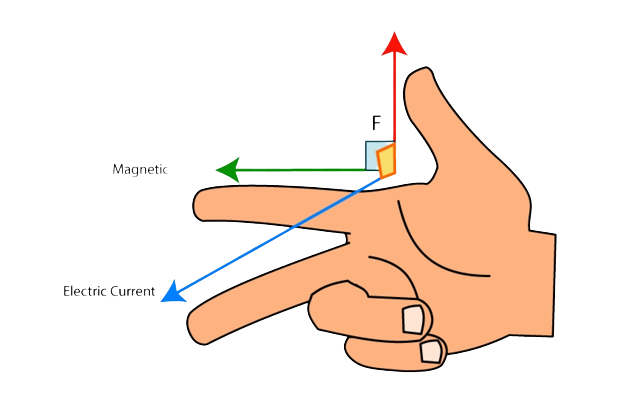
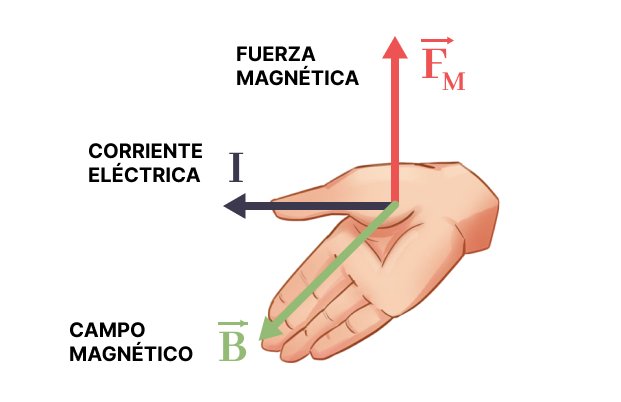
.

diff --git a/simulacion-11.html b/simulacion-11.html
@@ -52,22 +52,25 @@
         <!-- Descripcion -->
         <div class="album py-5 bg-light">
             <div class="container">
-                <h2>Carga eléctrica y ley de Coulomb</h2>
-                <p>Veamos la interaccion entre particulas puntuales en la siguiente animacion</p>
-                <h2>Funciones</h2>
-                <p>Lorem ipsum dolor sit amet consectetur adipisicing elit. Eius asperiores error nulla ex maiores commodi ipsam eligendi excepturi aliquam, ab fuga voluptas repellendus quam vero at exercitationem tempore sed distinctio!</p>
-                <!--
-                <p>
-                    When \(a \ne 0\), there are two solutions to \(ax^2 + bx + c = 0\) and they are
-                    \[x = {-b \pm \sqrt{b^2-4ac} \over 2a}.\]
+                <h2>Ley Biot-Savart</h2>
+                <p>La ley de Biot-Savart, relaciona los campos magnéticos con las corrientes que los crean. De una manera similar a como la ley de Coulomb relaciona los campos eléctricos con las cargas puntuales que las crean. La obtención del campo magnético resultante de una distribución de corrientes, implica un producto vectorial, y cuando la distancia desde la corriente al punto del campo está variando continuamente, se convierte inherentemente en un problema de cálculo diferencial.
                 </p>
-                -->
+                <p class="text-center"><img height="300" src="img/a11-bsav.png" alt=""></ class="text-center">
+                
 
-                <ul>
-                    <li>Contenido</li>
-                    <li>Contenido</li>
-                    <li>Contenido</li>
-                </ul>
+                <p>
+                    \[
+                    \vec{d{\bf{B}}}\ = \frac{{\mu _0 }}{{4\pi }}\frac{{I \vec{d{\bf{L}}} \times {\bf{\hat r}}}}{{r^2 }}
+                        
+                    \]
+                    Donde: \(\vec{d{\bf{B}}}\) es el campo magnético de un diferencial del conductor,
+                    \(\vec{d{\bf{L}}}\) es la longitud infinitesimal del conductor que transporta la corriente eléctrica \(I\) y
+                    \(\bf{\hat r}\) es el vector unitario para especificar la dirección del vector distancia \(r\) desde la corriente al punto del campo.
+                </p>
+                <h2>Funciones</h2>
+                <p>En la simulación podemos apreciar las direcciones del la corriente, campo magnético y desplazamiento, siguiendo la ley de Biot-Savart y la regla de la mano derecha.</p>
+                <p>Puedes pausar y reiniciar la simulación utilizando los botones.</p>
+                
                 <canvas id="lienzo" width="1280", height="720"></canvas>
             </div>
         </div>

diff --git a/js/animacion-11.js b/js/animacion-11.js
@@ -81,34 +81,12 @@ function drawControls(){
 /* DESDE ESTA PARTE PUEDEN/DEBEN EDITAR (PARA DEFINIR SUS CLASES, FUNCIONES, POSICIONES INICIALES Y FORMA DE MOVERSE) */
 
 // Clases con los elementos que se dibujaran
-class Particle{
-    constructor(){
-        //this.x = mouse.x;
-        //this.y = mouse.y;
-        this.x = Math.random()*canvasWidth;
-        this.y = Math.random()*canvasHeight;
-        this.size = Math.random() * 5 - 1;
-        this.speedX = Math.random() * 3 - 1.5;
-        this.speedY = Math.random() * 3 - 1.5;
-    }
-    update(){
-        this.x = this.x + this.speedX;
-        this.y = this.y + this.speedY;
-    }
-    draw(){
-        ctx.fillStyle = 'blue';
-        ctx.beginPath();
-        ctx.arc(this.x, this.y, 50, 0, 2*Math.PI);
-        ctx.fill();
-    }
-}
-
 class ConductingWire{
     constructor(){
         this.w = 800;
         this.h = 75;
         this.x = 1280/2-this.w/2;
-        this.y = 720/2-this.h/2;
+        this.y = 200;
         this.speedX = 0;
         this.speedY = 0;
     }
@@ -135,7 +113,7 @@ class ConductingPart{
         this.w = 60;
         this.h = 75;
         this.x = 980;
-        this.y = 720/2-this.h/2;
+        this.y = 200;
         this.speedX = -5;
         this.speedY = 0;
     }
@@ -180,28 +158,32 @@ class RightHand{
         var img = document.createElement("img");
         img.src = "img/a11-right-hand.png";
         ctx.drawImage(img, this.x, this.y,this.w, this.h);
+
+        var img = document.createElement("img");
+        img.src = "img/a11-lines.png";
+        ctx.drawImage(img, this.x, this.y-275,this.w, this.h);
     }
 }
 
 // Funcion que inicializa las posiciones de los elementos
 function init(){
     cw = new ConductingWire();
-    rh = new RightHand();
     cp = new ConductingPart();
+    rh = new RightHand();
 }
 
 // Funcion que mueve las posiciones de los elementos
 function handleElements(){
     cw.update();
-    rh.update();
     cp.update();
+    rh.update();
 }
 
 // Funcion que muestra los elementos
 function showElements(){
     cw.draw();
-    rh.draw();
     cp.draw();
+    rh.draw();
 }
 
 /* HASTA ESTA PARTE PUEDEN/DEBEN EDITAR */

diff --git a/simulaciones.html b/simulaciones.html
@@ -231,6 +231,7 @@
                         </div>
                     </div>
                 </div>
+                <!--
                 <div class="col">
                     <div class="card shadow-sm">
                         <img class="animacion-imagen" src="img/a12-miniatura.jpeg" width="100%" height="225" alt="">
@@ -266,7 +267,7 @@
                         </div>
                     </div>
                 </div>
-                
+            -->
 
 
             </div>
